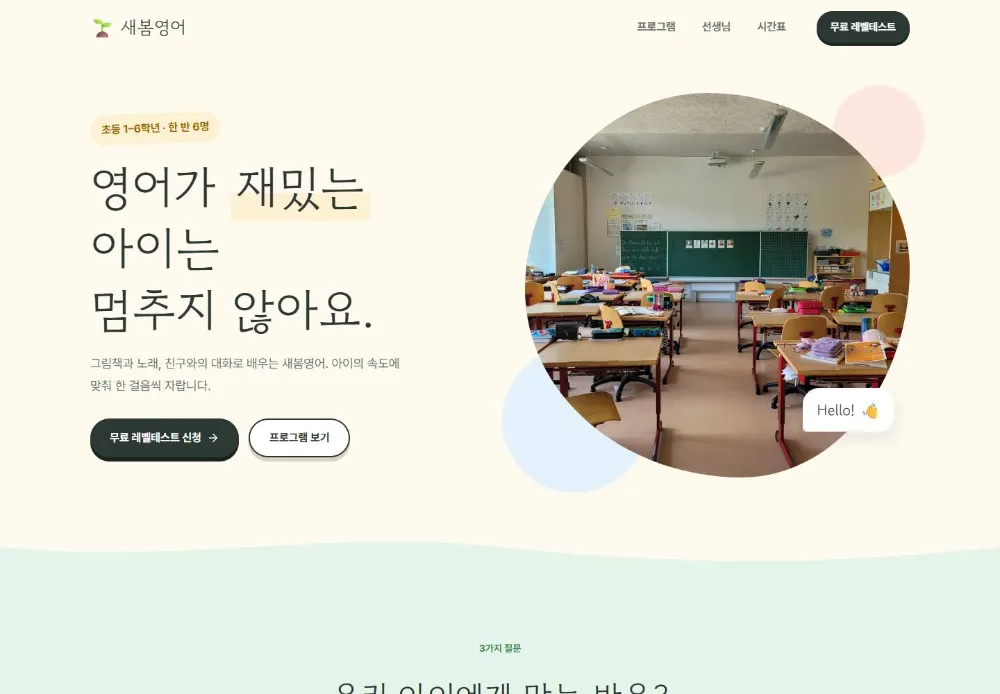
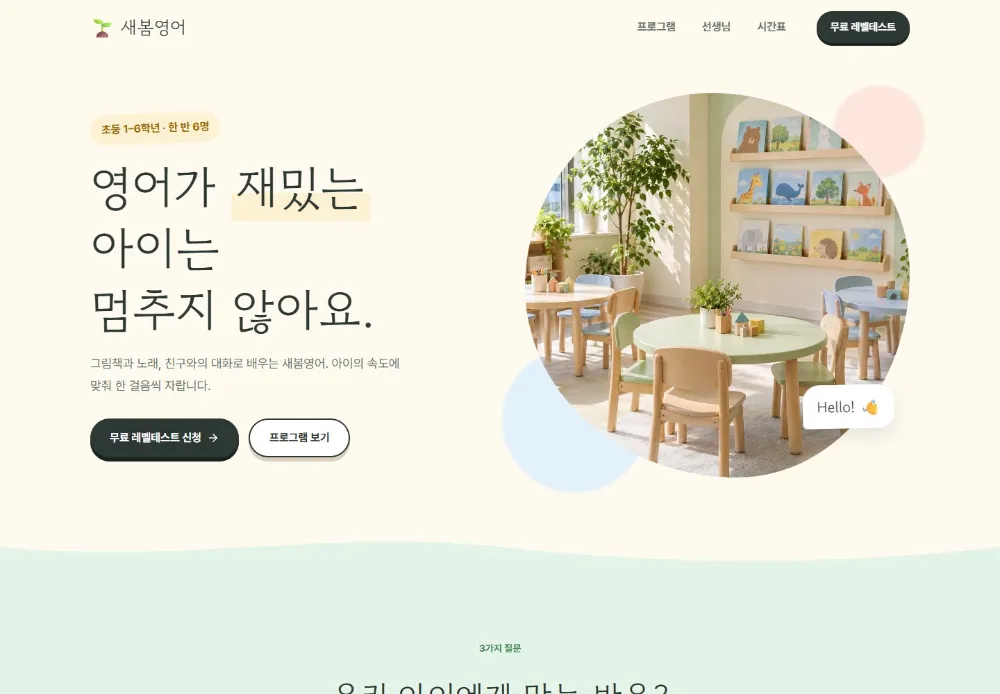
Add Codex-generated photos for Saebom English, Objet Market, Dasom Tax

Changed region(s): [[0.527, 0.121, 0.93, 0.696]]

diff --git a/src/sites/saebom-english/content.js b/src/sites/saebom-english/content.js
@@ -10,7 +10,7 @@ export const ACADEMY = Object.freeze({
 });
 
 // GPT 이미지가 public/sites/saebom-english/ 에 들어오면 파일명을 추가합니다.
-export const READY_IMAGES = Object.freeze([]);
+export const READY_IMAGES = Object.freeze(['hero-classroom.webp', 'reading.webp', 'blocks.webp', 'reading-corner.webp']);
 
 export const PHOTOS = Object.freeze({
   hero: { file: 'hero-classroom.webp', alt: '작은 원형 테이블이 있는 밝은 영어 교실', fallback: 'education/Qw6wa96IvvQ' },

diff --git a/src/sites/dasom-tax/content.js b/src/sites/dasom-tax/content.js
@@ -10,7 +10,7 @@ export const OFFICE = Object.freeze({
 });
 
 // GPT 이미지가 public/sites/dasom-tax/ 에 들어오면 파일명을 추가합니다.
-export const READY_IMAGES = Object.freeze([]);
+export const READY_IMAGES = Object.freeze(['hero-desk.webp', 'consult.webp', 'binders.webp']);
 
 export const PHOTOS = Object.freeze({
   hero: { file: 'hero-desk.webp', alt: '계산기와 영수증, 노트북이 놓인 밝은 책상', fallback: 'brand/hLM702Wwj8I' },

diff --git a/src/sites/objet-market/content.js b/src/sites/objet-market/content.js
@@ -12,7 +12,7 @@ export const SHOP = Object.freeze({
 });
 
 // GPT 이미지가 public/sites/objet-market/ 에 들어오면 파일명을 여기에 추가합니다.
-export const READY_IMAGES = Object.freeze([]);
+export const READY_IMAGES = Object.freeze(['banner-table.webp', 'banner-shelf.webp']);
 
 export const BANNERS = Object.freeze({
   table: { file: 'banner-table.webp', alt: '수공예 도자기가 차려진 식탁', fallback: 'retail/YI2YkyaREHk' },

diff --git a/docs/change-log.md b/docs/change-log.md
@@ -1,5 +1,13 @@
 # 작업 기록
 
+## 2026-10-09 — Codex 이미지 자동 연결 + 전용 이미지 9장 적용 (새봄영어·오브제마켓·다솜세무)
+
+- **이미지 자동 생성 연결**: 제가 요청문을 작성해 `codex exec`로 보내면 Codex(내장 imagegen)가 이미지를 만들고, 작업 완료 기록(turn.completed)이 나오면 제가 이어받아 WebP 변환·배치·연결·배포. Codex 샌드박스에서 프로젝트 폴더로의 저장 명령이 멈추므로 **생성만 시키고** 저장은 제가 함
+- 원본 위치: Codex 보관함 `~/.codex/generated_images/<대화ID>/exec-*.png` (실제 저장소 D:/CodexData/generated_images). 작업 스크립트(run-codex.mjs, place-images.mjs)는 세션 작업 폴더에 있음. 작업이 끝나도 프로세스가 안 꺼지므로 완료 기록 확인 후 직접 종료
+- 새 이미지 9장: 새봄영어 4(hero-classroom, reading, blocks, reading-corner), 오브제마켓 2(banner-table, banner-shelf), 다솜세무 3(hero-desk, consult, binders) → `public/sites/<id>/*.webp` (원본 2MB대 → 40~180KB), 원본 PNG는 `assets-src/sites/<id>/`(배포 제외)
+- 각 사이트 `content.js`의 `READY_IMAGES` 갱신, 메인 갤러리 썸네일 3장(`public/agency-assets/sites/*.webp`) 재촬영
+- 검증: 3개 사이트 PC·모바일 이미지 전부 로드·가로 넘침·콘솔 에러 없음, 테스트 19개, 빌드
+
 ## 2026-10-03 — 프리미엄 시작가 210만원 (예약·결제·3D 기본 포함)
 
 - 프리미엄(기능형 플랫폼) 150 → **210만원부터**. 포함: 관리자·회원·방문 통계 + **예약·결제·3D 인터랙션**(포함 기능 값 126, 페이지·디자인 값 84)
